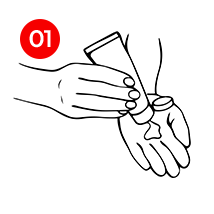
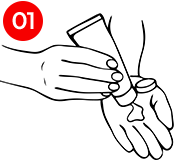
update

Changed region(s): [[0.0, 0.0, 0.9943, 0.9816], [0.2273, 0.3681, 0.3125, 0.4294]]

diff --git a/maxoderm2/index.html b/maxoderm2/index.html
@@ -180,6 +180,11 @@
             <div class="col-md-6">
               <div class="male_left">
                 <img src="assets/images/second/clean.png" alt="">
+                <div class="male_circle">
+                  <p>Feel it in </p>
+                  <h2>60</h2>
+                  <p>Seconds!</p>
+                </div>
               </div>
             </div>
             <div class="col-md-6">
@@ -188,7 +193,7 @@
                   <h2>Clean and simple,
                     delivered</h2>
                   <ul class="clean_ul">
-                    <li><img src="assets/images/second/clean/1.png" alt=""> <p>Take a quarter-size
+                    <li class="clean_ul_li"><img src="assets/images/second/clean/1.png" alt=""> <p>Take a quarter-size
                       amount of Maxoderm
                       cream.</p></li>
                     <li><img src="assets/images/second/clean/2.png" alt=""> <p>Massage the cream directly onto the penis for

diff --git a/maxoderm2/assets/css/style.css b/maxoderm2/assets/css/style.css
@@ -1065,6 +1065,43 @@ img{
 }
 
 
+.single_plan .btn_desin_1 { 
+	margin-left: -53px;
+}
+.male_circle p {
+	font-size: 17px;
+	font-weight: 600;
+	color: #fefefe;
+    font-family: 'Montserrat', sans-serif;
+}
+.male_circle h2 {
+	font-size: 74px;
+	font-family: 'Montserrat', sans-serif;
+	font-weight: 600;
+	color: #fefefe;
+	line-height: 57px;
+}
+.male_left{
+	position: relative;
+}
+
+.male_circle {
+	background: #ff0000;
+	width: 150px;
+	height: 150px;
+	border-radius: 100%;
+	display: flex;
+	flex-direction: column;
+	justify-content: center;
+	align-items: center;
+	position: absolute;
+	top: 10px;
+	left: 80px;
+}
+
+.clean_ul_li img {
+	width: 174px !important;
+}
 
 /* 
 

diff --git a/maxoderm2/assets/css/responsive.css b/maxoderm2/assets/css/responsive.css
@@ -62,6 +62,10 @@
     .menu {
         display: none;
     } 
+    .clean_ul_li img {
+        width: 127px !important;
+        height: 93px !important;
+    }
     .male_ul li img {
         margin-top: 3px;
     }
